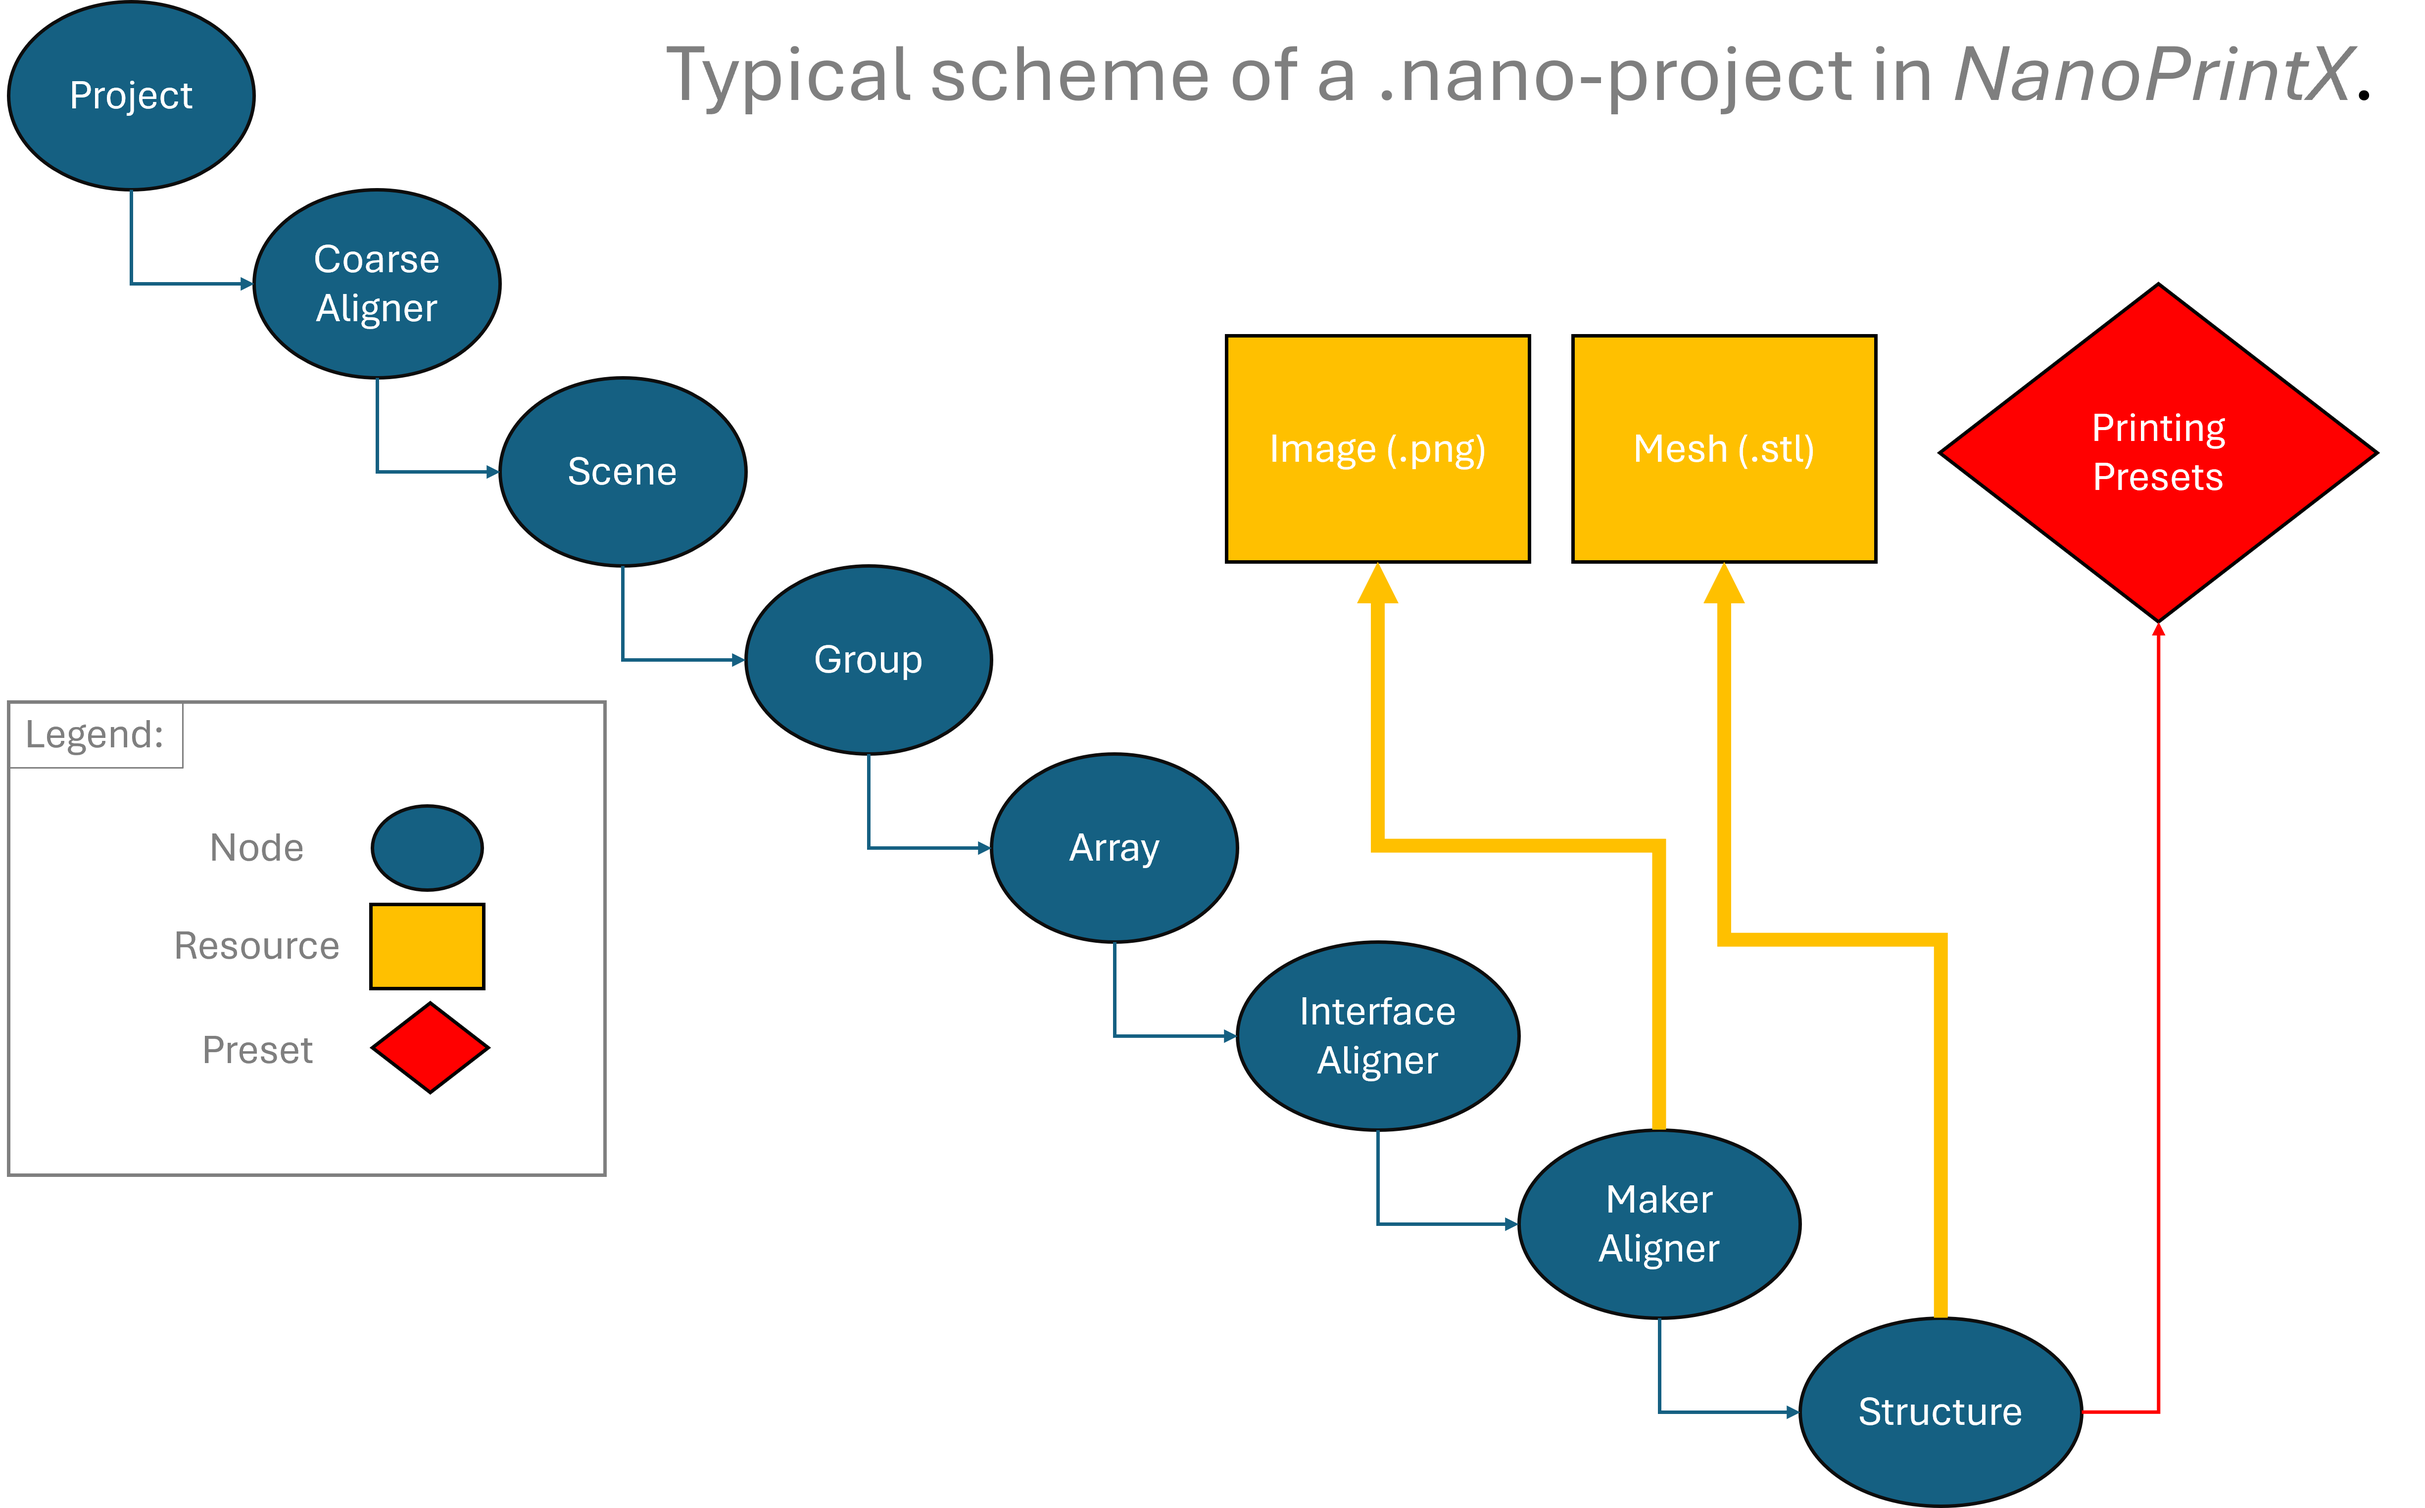
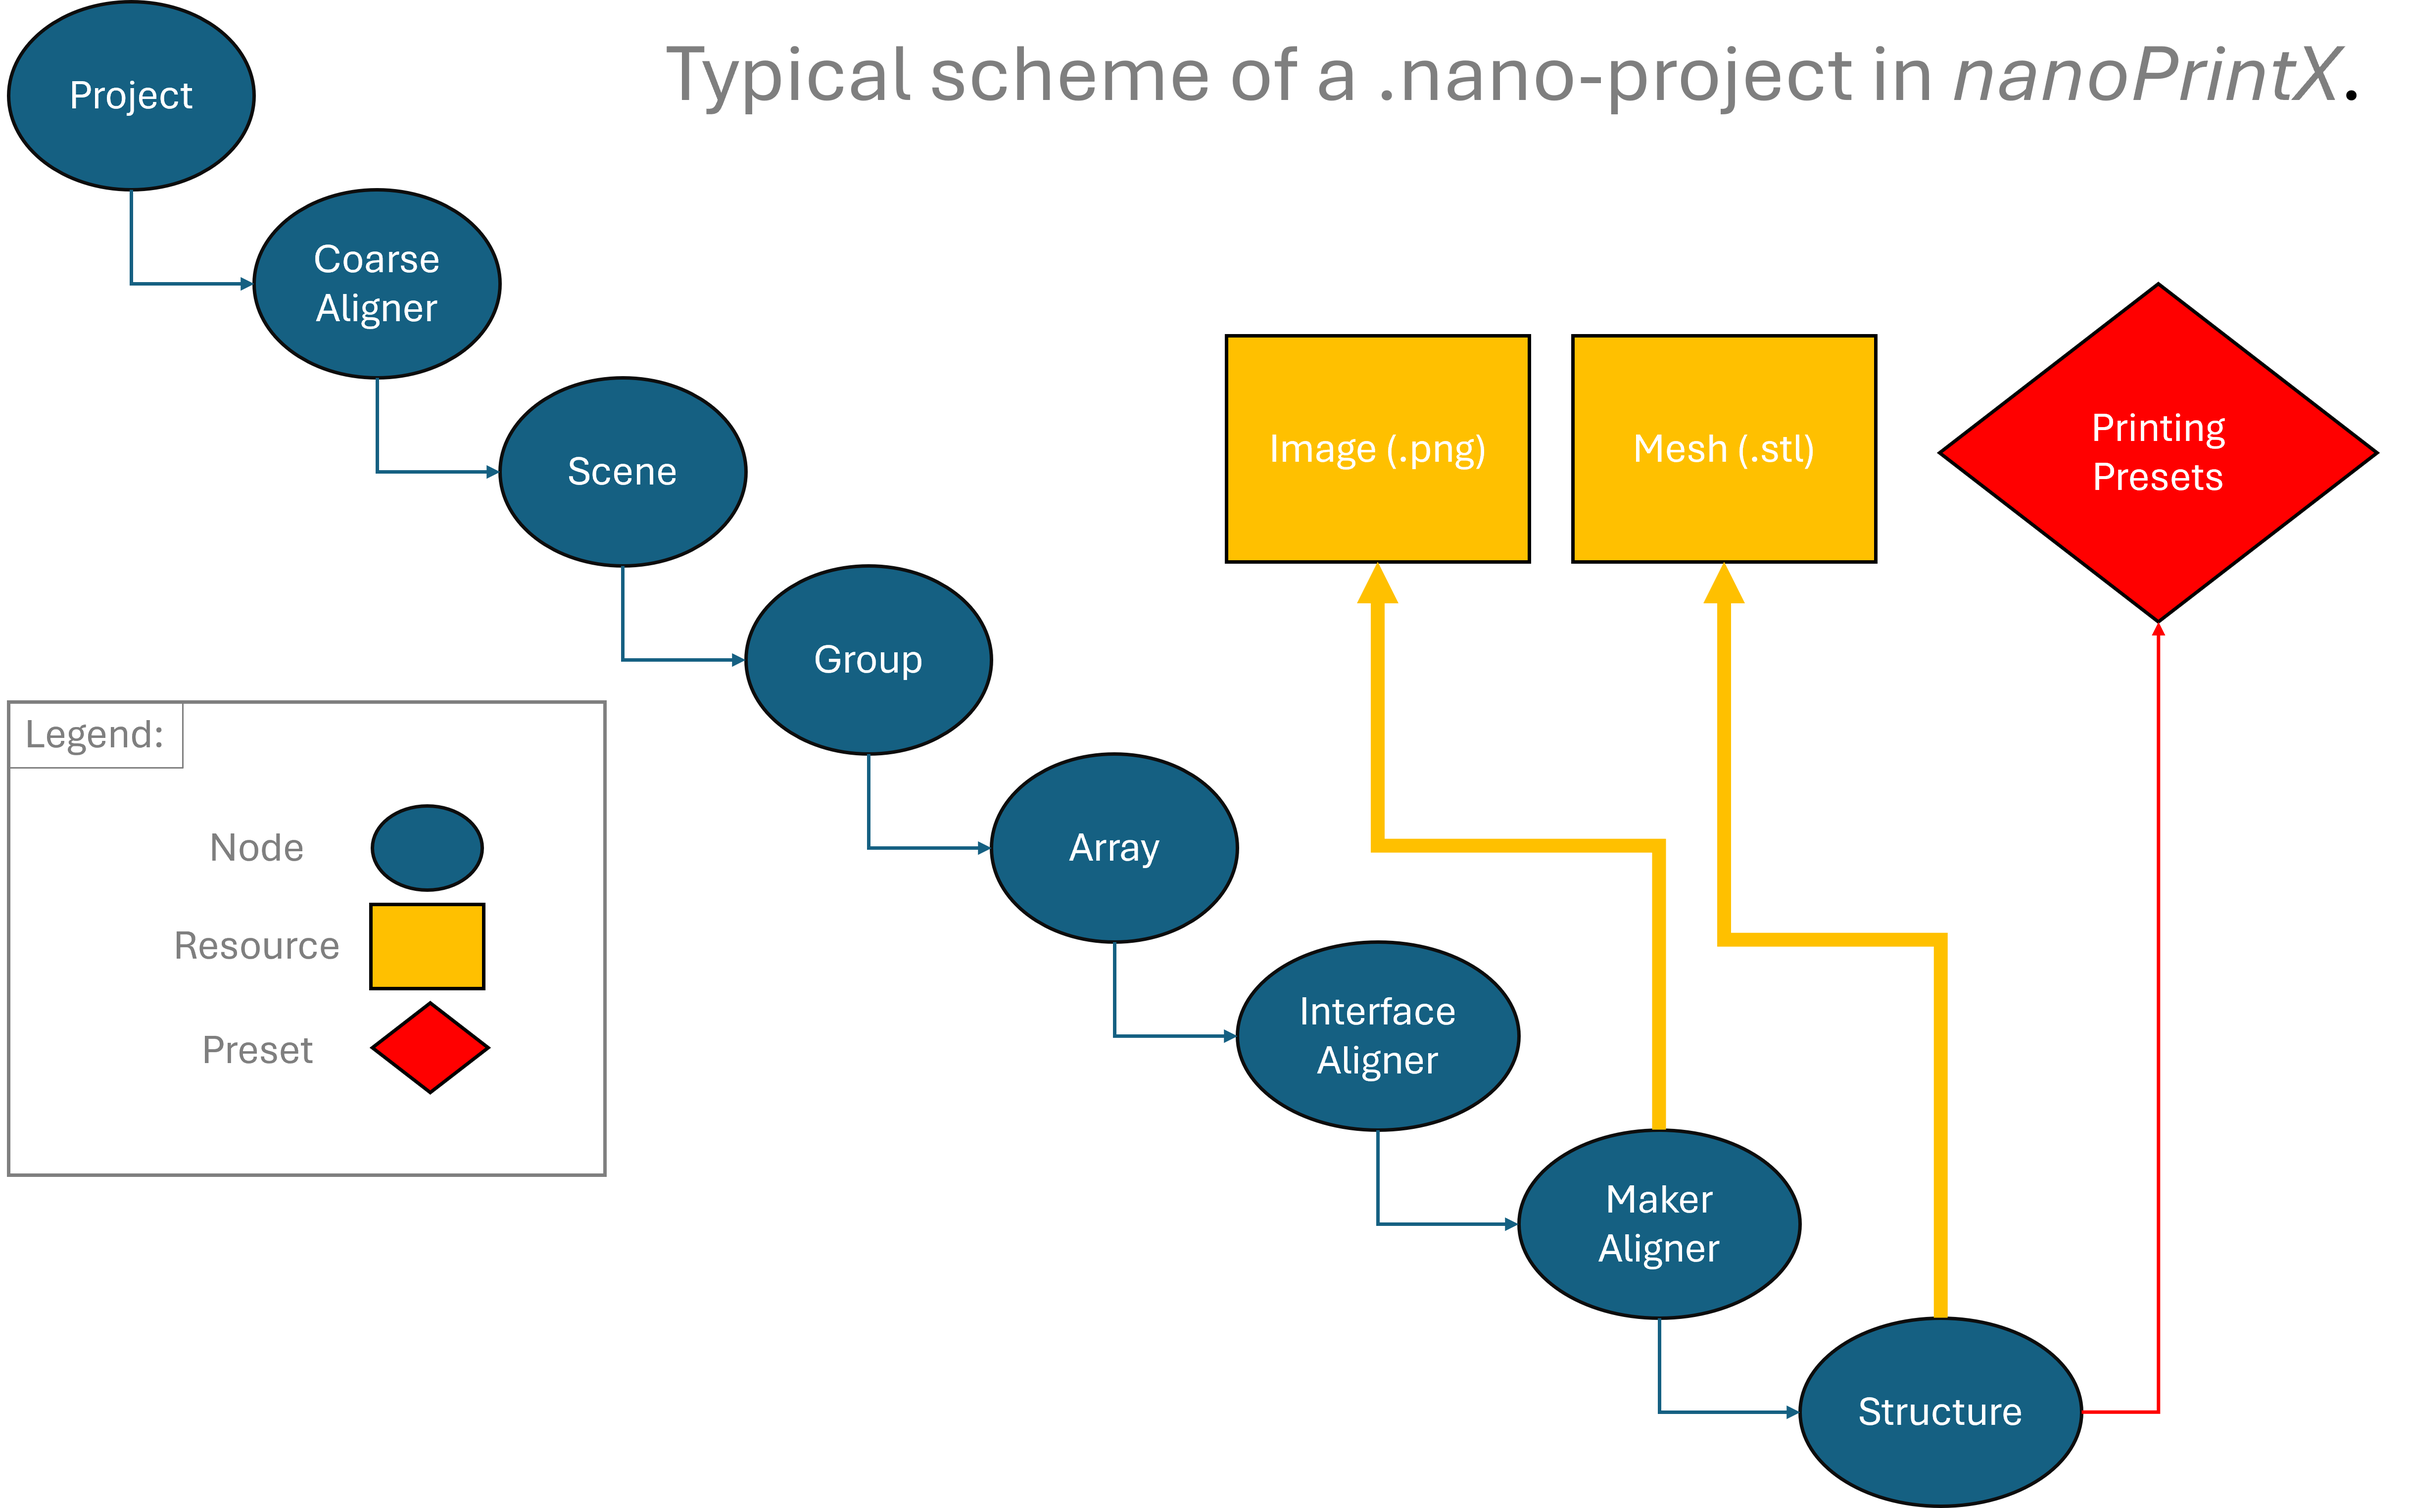
NanoPrintX to nanoPrintX

diff --git a/README.md b/README.md
@@ -15,7 +15,7 @@
 
 ## Introduction
 The here provided custom API *nanoAPI* for the **NanoScribe QX** attempts to emulate the logic of its out-of-the-box
-GUI-software *NanoPrintX* by means of plain-text-manipulation and open-source-tools only. Just three classes are implemented to accomplish this
+GUI-software *nanoPrintX* by means of plain-text-manipulation and open-source-tools only. Just three classes are implemented to accomplish this
 in a concise manner:
 
 1. Presets: `nanoAPI.Preset()`
@@ -29,7 +29,7 @@ implementation of the intuitively clear and accessible GUI will inevitably have 
 guide of the API's logic can help understanding the order of implementation before diving into the actual code for the .nano-generation. 
 
 ## Schematic Outline
-**ATTENTION:** *It is assumed that the reader has already familiarized themselves with the NanoPrintX-GUI's workflow before proceeding with the following doc!*
+**ATTENTION:** *It is assumed that the reader has already familiarized themselves with the nanoPrintX-GUI's workflow before proceeding with the following doc!*
 *No additional introduction will be given for the GUI beforehand.*
 
 ![Figure 1](images/fig1.png)
@@ -60,10 +60,10 @@ The last step is always the same, where all objects are collected according to t
 ### Preparing your project
 Before you start coding your `project.py`, you should prepare you project folder. This step is rather easy but there are some caveats that should be discussed.
 Your project folder just needs to contain an additional folder named `resources` which contains your images (`.png`) and meshes (`.stl`). It should be clear that
-the naming of those files should be unique because otherwise the **QX** would run into problems. *NanoPrintX* uses the MD5-hashes (see Fig. a/b) of the respective files and creates sub-folders
+the naming of those files should be unique because otherwise the **QX** would run into problems. *nanoPrintX* uses the MD5-hashes (see Fig. a/b) of the respective files and creates sub-folders
 inside the `resources`-folder and inserts those files then into them. This way you end up with uniquely named folders that each stores the single respective file, serving
 as labels. I have implemented a function called `copy_files_to_resource_directory(source_directory = 'my/resources/are/here')` which does this for you if you want to adapt
-to this convention applied by *NanoPrintX*. However, as long as you have unique naming conventions, you can skip this extra step.
+to this convention applied by *nanoPrintX*. However, as long as you have unique naming conventions, you can skip this extra step.
 
 ![Figure a](images/resources1.png)
 ![Figure b](images/resources2.png)
@@ -131,7 +131,7 @@ resource_image = n.Resource(resource_type = "image_file",
 
 ```
 There are no other resource types other then these two. The names you choose as you wish. The path is the location inside of the `resources`-folder and as you can see
-here, the (very esthetically pleasing) MD5-hash-convention, as used by *NanoPrintX*, was (demonstratively) used.
+here, the (very esthetically pleasing) MD5-hash-convention, as used by *nanoPrintX*, was (demonstratively) used.
 
 Now we get to the allocation of nodes. As always, we start by setting up the project node.
 ```python
@@ -166,7 +166,7 @@ positions = [[-60.0, -528.0, 0.0],
 for label, position in zip(labels,positions):
     coarse_aligner1.add_coarse_anchor(label, position)
 ```
-The node's type gets allocated as a coarse aligner with some arbitrary name. All default options as provided by *NanoPrintX* are already passed if not declared otherwise.
+The node's type gets allocated as a coarse aligner with some arbitrary name. All default options as provided by *nanoPrintX* are already passed if not declared otherwise.
 In the next lines the labels and positions for the coarse aligner's anchors need to be set. You pass those by utilizing the `Node`-classes method `.add_coarse_anchor(label, position)`.
 
 Demonstratively we add nodes of types scene, group and array.
@@ -357,8 +357,8 @@ do not hesitate to contact me and I will help!
 convenient to store all that info in a `.csv`- or `xlsx`-format that makes them easily adjustable and readable for humans. An extremely useful package to load and manage
 such files in an python-environment is the package `pandas`. Familirizing yourself with it and utilizing it will definetively be a valuable contribution to your workflow!
 - You will not be able to tell if your `.nano`-file gets executed in the **QX** or not by just compiling your project. As of yet, *nanoAPI* does not output any errors if there is 
-something wrong with your project. Therefore, it makes sense to check if *NanoPrintX* loads the project properly. If it does, it means that your project will be accepted by the **QX**. 
-If you want to be on the safe side, you can also save (pun unintended) your file after opening it in *NanoPrintX*.
+something wrong with your project. Therefore, it makes sense to check if *nanoPrintX* loads the project properly. If it does, it means that your project will be accepted by the **QX**. 
+If you want to be on the safe side, you can also save (pun unintended) your file after opening it in *nanoPrintX*.
 - As of yet, there is no way of telling what parameters are mandatory for the `.nano`-files to work. Some parameters do appear to be redundant 
 inside the `.nano`-files and are going to be commented with `#here-to-stay value` or `#hts value` inside the `example_project.py`. Those are never assigned in the  GUI but appear anyway. 
 The user is therefore hereby encouraged to just experiment with leaving out some of those parameters and check if the project files still work.
